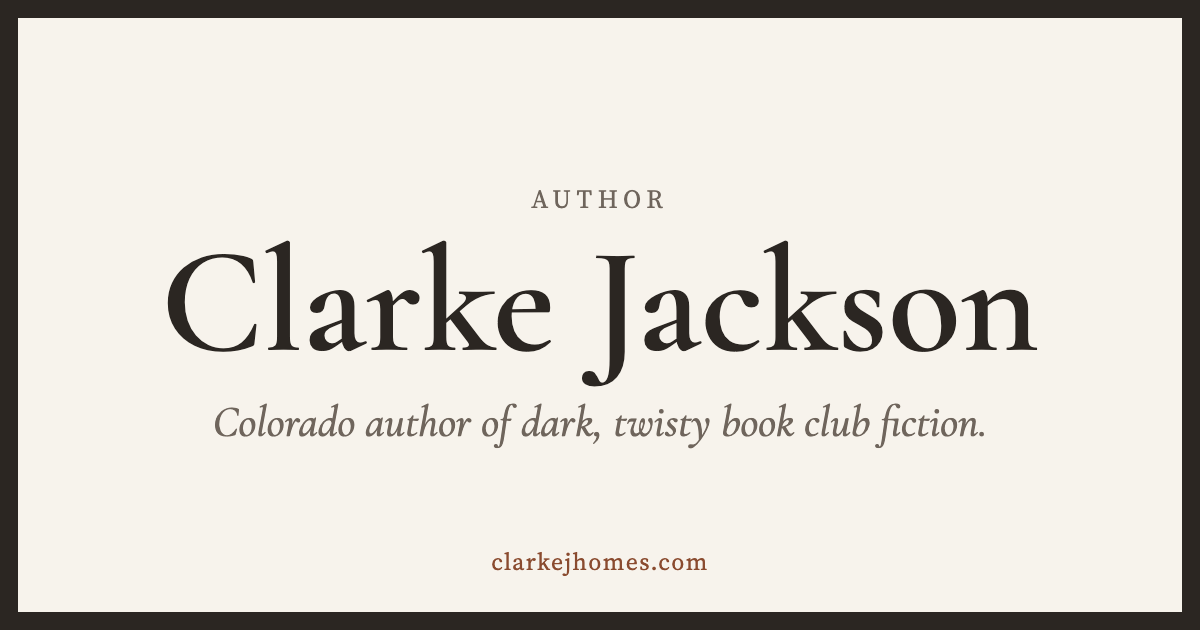
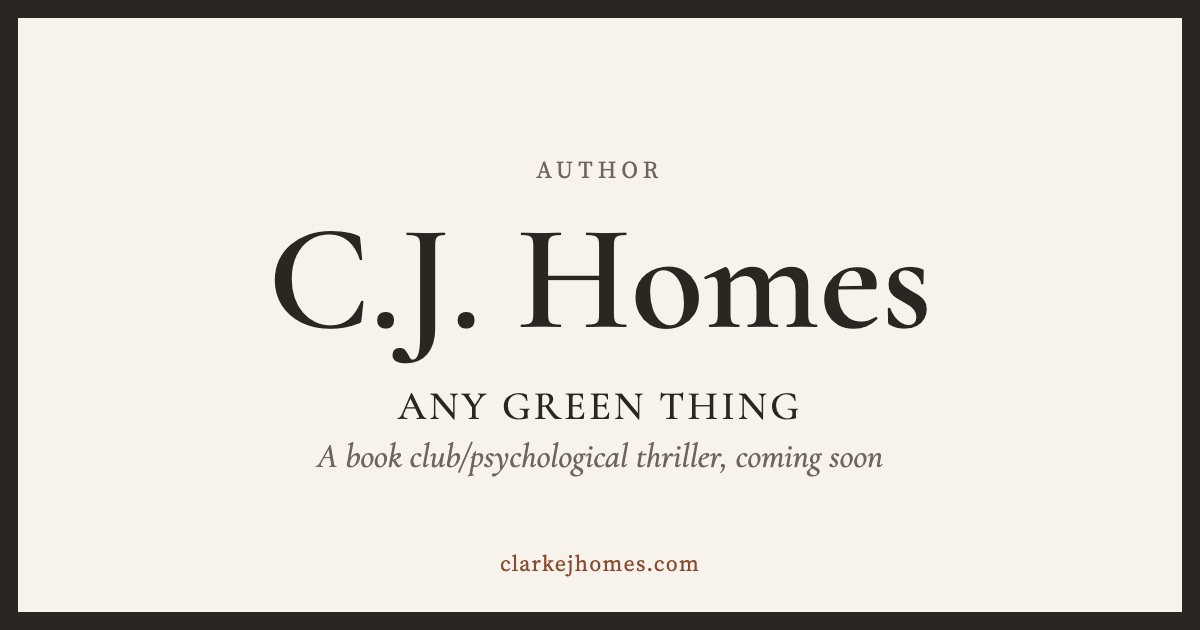
Apply Clarke's copy: C.J. Homes pen name, new book description, about, email list text

Changed region(s): [[0.1233, 0.3619, 0.8633, 0.754], [0.4317, 0.2413, 0.555, 0.3317], [0.4008, 0.8746, 0.5858, 0.9048]]

diff --git a/src/site.ts b/src/site.ts
@@ -2,16 +2,20 @@
 // Edit the text, commit to main, and the site redeploys in about a minute.
 
 export const site = {
-  name: "Clarke Jackson",
+  name: "C.J. Homes",
   tagline: "Author",
-  // One or two sentences shown under the name at the top of the page.
-  intro: "Colorado author of dark, twisty book club fiction.",
+  // Used for search results and link previews; not shown on the page.
+  description:
+    "C.J. Homes is a Colorado author. Her debut novel, ANY GREEN THING, a book club/psychological thriller set in the Florida Keys, is coming soon.",
 
   // About section. Each string is a paragraph.
   about: [
-    "Clarke Jackson is a Colorado author. Her novel, Any Green Thing, is a book club psychological thriller about faith, wealth, and the secrets a community will kill to keep.",
+    "If you found this website there’s a good chance you know the author already.",
+    "If you’re new here though, C.J. lives in Colorado with her husband, two children, two giant dogs, and two cats. ANY GREEN THING was inspired by the verdant Florida locale where her husband grew up vacationing, and how out of place she felt the first time she visited.",
+    "This is her debut novel and she dreams of seeing it on a library shelf someday.",
+    "Adding your email address is a small step you can take to help her get there!",
   ],
-  // Optional author photo: drop a file in /public (e.g. public/clarke.jpg) and set this to "/clarke.jpg".
+  // Optional author photo: drop a file in /public (e.g. public/author.jpg) and set this to "/author.jpg".
   photo: "",
 
   // Contact address shown in the footer; leave empty to hide the contact section.
@@ -20,8 +24,8 @@ export const site = {
   // "Clarke J Home Email List" Google Sheet. Leave webhook empty to hide the form.
   newsletter: {
     webhook: "https://hooks.zapier.com/hooks/catch/21402526/417g1ov/",
-    heading: "Join the email list",
-    blurb: "News about upcoming books and events. No spam, just the occasional update.",
+    heading: "Join the Email List",
+    blurb: "Support the author and receive news about upcoming books and events.",
   },
   // Leave a link empty ("") to hide it.
   links: {

diff --git a/src/pages/llms.txt.ts b/src/pages/llms.txt.ts
@@ -11,15 +11,17 @@ export const GET: APIRoute = async () => {
   const lines = [
     `# ${site.name}`,
     "",
-    `> ${site.intro}`,
+    `> ${site.description}`,
     "",
-    ...site.about,
+    `## About ${site.name}`,
     "",
+    ...site.about.flatMap((p) => [p, ""]),
     "## Books",
     "",
     ...books.flatMap((book) => [
       `### ${book.data.title}`,
       ...(book.data.subtitle ? [`*${book.data.subtitle}*`] : []),
+      ...(book.data.tagline ? [book.data.tagline] : []),
       ...(book.data.status ? [`Status: ${book.data.status}`] : []),
       ...(book.data.buyUrl ? [`Buy: ${book.data.buyUrl}`] : []),
       "",

diff --git a/src/content.config.ts b/src/content.config.ts
@@ -7,6 +7,7 @@ const books = defineCollection({
   schema: z.object({
     title: z.string(),
     subtitle: z.string().optional(),
+    tagline: z.string().optional(), // one-line hook shown above the description
     // Higher numbers show first.
     order: z.number().default(0),
     status: z.string().optional(), // e.g. "Coming 2027", "Out now"

diff --git a/src/content/books/any-green-thing.md b/src/content/books/any-green-thing.md
@@ -1,31 +1,25 @@
 ---
 title: "Any Green Thing"
-subtitle: "A book club psychological thriller"
+subtitle: "A book club/psychological thriller"
+tagline: "New money, family secrets, and the power of faith."
+status: "Coming Soon"
 order: 1
-# status: "Coming 2027"
 # cover: "/covers/any-green-thing.jpg"
 # buyUrl: "https://..."
 ---
 
-Eternal outsider Ayla left the faith community that raised her as a caravan of roving
-trailers. She returns as the wife of the leader's beloved son. She finds it's become an
-international megachurch where everyone's bags are designer and sin doesn't even begin
-to cover it.
+Luxury is anything but quiet in The Enclave. This exclusive island community is home to
+the elite of a growing megachurch, and a new family is moving in.
 
-Ayla moves to the faith's exclusive island community with her husband and infant
-daughter. But just as she settles into the happily ever after part of her Cinderella
-story, two corpses crash their lavish homecoming party. Told never to question God's
-plan, the community moves on easily from the horrific discovery, but Ayla's anxiety
-spirals.
+Ayla isn’t accustomed to a life of privilege but knows The Enclave is where God and her
+late mother want her to be. But a face she cannot place, a husband she no longer
+recognizes, and cryptic notes left behind by her late mother force Ayla to ask a
+dangerous question.
 
-To bring her back to the faith's central tenet of acceptance, Ayla agrees to therapy and
-drug treatments managed by the church. As the treatments blur the lines of her reality,
-a face she cannot place, a husband she no longer recognizes, and cryptic notes from her
-late mother push her toward a dangerous suspicion. Her church has a secret, and it's
-been killing its own followers to keep it.
+Is she there to enjoy her new, lavish life, or to uncover the rot beneath it?
 
-Ayla can trust her instincts and risk her family, security, and faith, or she can shut
-her eyes, keep silent, and enjoy her life of privilege.
+Set in the Florida Keys, full of twists and suspense, this novel is a reminder that
+survival can depend upon trusting your instincts and trusting yourself.
 
-*If the only thing that will satisfy your appetite is to eat the rich, add this to your
+*If the only thing that satisfies your appetite is eating the rich, add this to your
 reading menu.*

diff --git a/README.md b/README.md
@@ -1,10 +1,10 @@
 # clarkejhomes.com
 
-Author site for Clarke Jackson. Astro static site, deployed to GitHub Pages on every push to `main`.
+Author site for C.J. Homes. Astro static site, deployed to GitHub Pages on every push to `main`.
 
 ## Editing
 
-- **Name, intro, bio, photo, email, social links:** `src/site.ts`
+- **Name, description, bio, photo, email, social links:** `src/site.ts`
 - **Books:** one markdown file per book in `src/content/books/` (copy `first-book.md`). Covers go in `public/covers/`.
 - **Images:** anything in `public/` is served from the site root (`public/clarke.jpg` → `/clarke.jpg`).
 
